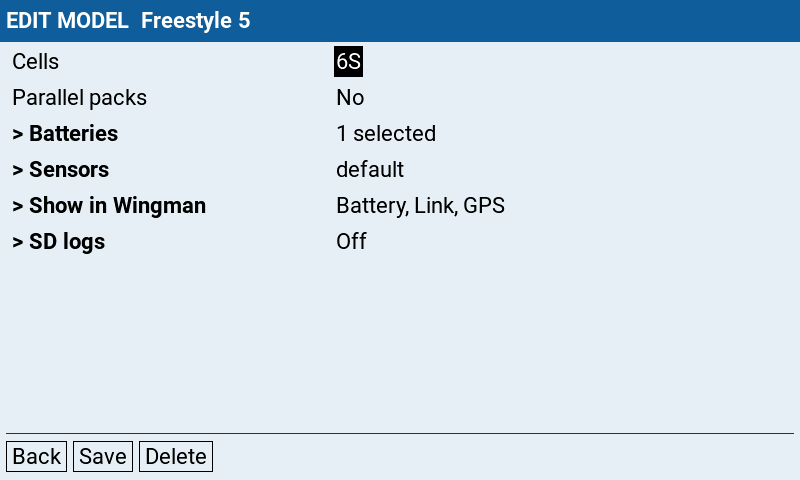
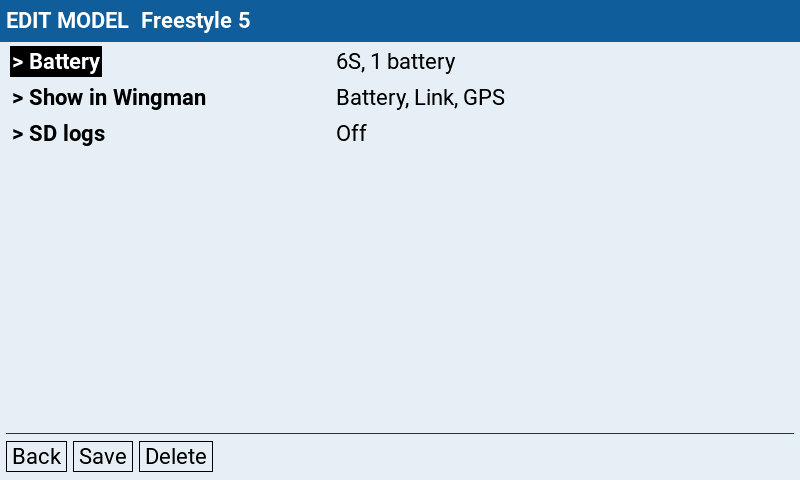
Flight Bag > Models: model page with Battery (summary such as 6S, 1 battery), Show in Wingman and SD logs; Cells, Parallel packs, Batteries and Sensors on a new battery page, stored with the model's Save; SD logs preselects Arm switch from the FC modes Wingman stored for the model (armPosition in sw

diff --git a/docs/flightbag.md b/docs/flightbag.md
@@ -229,14 +229,27 @@ configured yet, **[+] Add current model** appears in the bottom bar.
 
 | Field | Notes |
 |---|---|
+| **Battery** | Only with Lipo Nanny. Cell count and number of assigned profiles, for example `6S, 1 battery`. Opens the battery page (see below). |
+| **Show in Wingman** | Only with Flight Wingman. Opens the module switches (see below). |
+| **SD logs** | `Off`, or the trigger and interval of the model's log function (for example `SF↓, 0.5 s`, with `, disabled` when it is switched off in the model), or `No trigger` for an SD Logs function without a switch. Opens the SD logs page (see below). Only for the active model. |
+
+Buttons: **Back**, **Save** and **Delete** (existing model settings only). **Save** also stores what you changed on the
+battery page and in **Show in Wingman**; **SD logs** changes the model right away.
+
+### Battery
+
+<p align="center">
+  <img src="img/flightbag-model-battery.png" width="480" alt="Battery page of a model">
+</p>
+
+| Field | Notes |
+|---|---|
 | **Cells** | The model's cell count (S). Only profiles with the same cell count can be assigned. |
 | **Parallel packs** | `Yes` if you fly two packs in parallel (shown as `#1+2`), otherwise `No`. Needs at least one assigned profile with **two or more packs**. Switching to `Yes` with single-pack profiles assigned asks to unassign them. At flight time the second pack is always from the same profile as the first. |
 | **Batteries** | Opens the list where you tick the profiles that fit this model. Profiles with the wrong cell count (and, in parallel mode, those with fewer than two packs) are greyed out. |
 | **Sensors** | `default` or `custom`. Opens the sensor mapping (see below). |
-| **Show in Wingman** | Only with Flight Wingman. Opens the module switches (see below). |
-| **SD logs** | `Off`, or the trigger and interval of the model's log function (for example `SF↓, 0.5 s`, with `, disabled` when it is switched off in the model), or `No trigger` for an SD Logs function without a switch. Opens the SD logs page (see below). Only for the active model. |
 
-Buttons: **Back**, **Save** and **Delete** (existing model settings only).
+**Back** returns to the model; the changes are stored with the model's **Save**.
 
 ### Sensors
 
@@ -285,7 +298,7 @@ Wingman Viewer).
 | Field | Notes |
 |---|---|
 | **Log** | `Armed` (one log file per flight, while the arm switch is on) or `Always on` (logs from power-on to power-off). |
-| **Arm switch** | Only with `Armed`. The switch position that arms the model, or any defined logical switch. A switch set in EdgeTX that the list does not offer (for example an inverted switch or a flight mode) heads the list, so Enter keeps it. |
+| **Arm switch** | Only with `Armed`. The switch position that arms the model, or any defined logical switch. A switch set in EdgeTX that the list does not offer (for example an inverted switch or a flight mode) heads the list, so Enter keeps it. While the model has no switch set, Flight Wingman's stored FC modes preselect the position that arms the model, if exactly one does; it is written only with **Set up** or **Apply**. |
 | **Interval** | Time between two log lines, 0.1 to 5.0 s, default 0.5 s (about 4 MB per hour of flying). A longer interval set by hand in the model stays until you change it. |
 
 **Set up** adds the function to a free special function slot, **Apply** changes an existing one, **Remove** deletes
